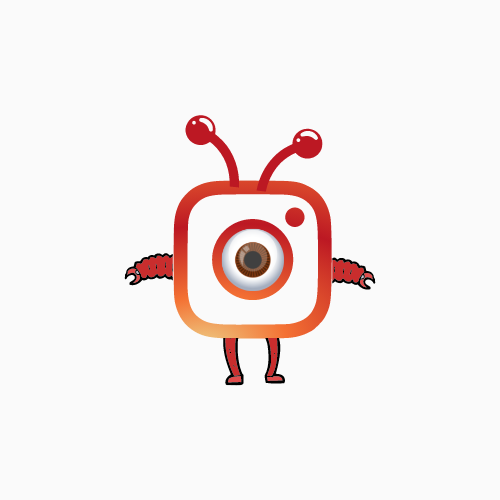
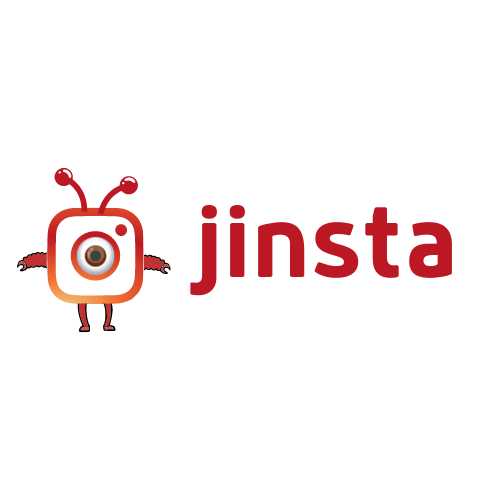
docs: documentation updated (#18)
* style(assets): icon changed with transparent backgrounded version

* style(assets): icon updated

* style(pom): project description added

Maven project description added for maven package

* build(example): example app project added

Parent project configuration updated with example module

* docs(readme): README and CODE OF CONDUCT files updated

* build(config): IntelliJ configuration updated

* build(config): concom configuration updated

new scopes added

* revert(659327e): "style(pom): project description added"

This reverts commit 659327e6e7e989b259487cedf9698375db3b63fc.

* docs(readme): Documentation linted by spotless

README and CODE_OF_CONDUCT files are linted by spotless

* docs(readme): Documentations updated

README.md updated and CONTRIBUTING.md file added

* docs: bug report template added

* build(config): concom configuration updated

* docs(readme): README file updated

* docs(readme): README file linted

* docs(readme): README issue fixed

* build(version): version incremented to 0.0.4

* fix(example): example application pom.xml issue fixed

deprecated parnt property replaced by project.parent and maven deploy plugin added to skip in deploy process

* build(version): version incremented to 0.0.5

The version 0.0.4 was messed up

* build(config): concom configuration updated

version scope added

Changed region(s): [[0.03, 0.21, 0.93, 0.78]]

diff --git a/example/src/main/java/io/makepad/jinsta/example/Example.java b/example/src/main/java/io/makepad/jinsta/example/Example.java
@@ -1,0 +1,33 @@
+/* (C)2021 */
+package io.makepad.jinsta.example;
+
+import io.makepad.jinsta.JInsta;
+import io.makepad.socialwalker.commons.models.Configuration;
+
+public class Example {
+    public static void main(String[] args) throws Exception {
+        Configuration c = new Configuration(true, "jinsta_test_cookies.data");
+        JInsta j = new JInsta(c);
+
+        // EXAMPLE PURPOSE ONLY: username, password login function will also check if cookie exists
+        // and login with cookies if needed.
+        if (c.isCookiesExists()) {
+            // If cookie already exists, it will login with cookies
+            j.login();
+        } else {
+            // Login to instagram account with username and password
+            j.login(System.getenv("INSTAGRAM_USERNAME"), System.getenv("INSTAGRAM_PASSWORD"));
+        }
+
+        j.setUserProfile("instagram");
+
+        System.out.printf("User full name %s\n", j.userProfile.getFullname());
+        System.out.printf("User number of followers %d\n", j.userProfile.getNbFollowers());
+        System.out.printf("User number of followings %s\n", j.userProfile.getNbFollowings());
+        System.out.printf("User bio %s\n", j.userProfile.getBio());
+        for (String followingUsername : j.userProfile.getFollowings()) {
+            System.out.printf("Following username %s\n", followingUsername);
+        }
+        // TODO: Check followers of another account
+    }
+}

diff --git a/CODE_OF_CONDUCT.md b/CODE_OF_CONDUCT.md
@@ -1,0 +1,133 @@
+
+# Contributor Covenant Code of Conduct
+
+## Our Pledge
+
+We as members, contributors, and leaders pledge to make participation in our
+community a harassment-free experience for everyone, regardless of age, body
+size, visible or invisible disability, ethnicity, sex characteristics, gender
+identity and expression, level of experience, education, socio-economic status,
+nationality, personal appearance, race, caste, color, religion, or sexual identity
+and orientation.
+
+We pledge to act and interact in ways that contribute to an open, welcoming,
+diverse, inclusive, and healthy community.
+
+## Our Standards
+
+Examples of behavior that contributes to a positive environment for our
+community include:
+
+* Demonstrating empathy and kindness toward other people
+* Being respectful of differing opinions, viewpoints, and experiences
+* Giving and gracefully accepting constructive feedback
+* Accepting responsibility and apologizing to those affected by our mistakes,
+and learning from the experience
+* Focusing on what is best not just for us as individuals, but for the
+overall community
+
+Examples of unacceptable behavior include:
+
+* The use of sexualized language or imagery, and sexual attention or
+advances of any kind
+* Trolling, insulting or derogatory comments, and personal or political attacks
+* Public or private harassment
+* Publishing others' private information, such as a physical or email
+address, without their explicit permission
+* Other conduct which could reasonably be considered inappropriate in a
+professional setting
+
+## Enforcement Responsibilities
+
+Community leaders are responsible for clarifying and enforcing our standards of
+acceptable behavior and will take appropriate and fair corrective action in
+response to any behavior that they deem inappropriate, threatening, offensive,
+or harmful.
+
+Community leaders have the right and responsibility to remove, edit, or reject
+comments, commits, code, wiki edits, issues, and other contributions that are
+not aligned to this Code of Conduct, and will communicate reasons for moderation
+decisions when appropriate.
+
+## Scope
+
+This Code of Conduct applies within all community spaces, and also applies when
+an individual is officially representing the community in public spaces.
+Examples of representing our community include using an official e-mail address,
+posting via an official social media account, or acting as an appointed
+representative at an online or offline event.
+
+## Enforcement
+
+Instances of abusive, harassing, or otherwise unacceptable behavior may be
+reported to the community leaders responsible for enforcement at
+dev@makepad.fr.
+All complaints will be reviewed and investigated promptly and fairly.
+
+All community leaders are obligated to respect the privacy and security of the
+reporter of any incident.
+
+## Enforcement Guidelines
+
+Community leaders will follow these Community Impact Guidelines in determining
+the consequences for any action they deem in violation of this Code of Conduct:
+
+### 1. Correction
+
+**Community Impact**: Use of inappropriate language or other behavior deemed
+unprofessional or unwelcome in the community.
+
+**Consequence**: A private, written warning from community leaders, providing
+clarity around the nature of the violation and an explanation of why the
+behavior was inappropriate. A public apology may be requested.
+
+### 2. Warning
+
+**Community Impact**: A violation through a single incident or series
+of actions.
+
+**Consequence**: A warning with consequences for continued behavior. No
+interaction with the people involved, including unsolicited interaction with
+those enforcing the Code of Conduct, for a specified period of time. This
+includes avoiding interactions in community spaces as well as external channels
+like social media. Violating these terms may lead to a temporary or
+permanent ban.
+
+### 3. Temporary Ban
+
+**Community Impact**: A serious violation of community standards, including
+sustained inappropriate behavior.
+
+**Consequence**: A temporary ban from any sort of interaction or public
+communication with the community for a specified period of time. No public or
+private interaction with the people involved, including unsolicited interaction
+with those enforcing the Code of Conduct, is allowed during this period.
+Violating these terms may lead to a permanent ban.
+
+### 4. Permanent Ban
+
+**Community Impact**: Demonstrating a pattern of violation of community
+standards, including sustained inappropriate behavior,  harassment of an
+individual, or aggression toward or disparagement of classes of individuals.
+
+**Consequence**: A permanent ban from any sort of public interaction within
+the community.
+
+## Attribution
+
+This Code of Conduct is adapted from the [Contributor Covenant][homepage],
+version 2.1, available at
+[https://www.contributor-covenant.org/version/2/1/code_of_conduct.html][v2.1].
+
+Community Impact Guidelines were inspired by
+[Mozilla's code of conduct enforcement ladder][Mozilla CoC].
+
+For answers to common questions about this code of conduct, see the FAQ at
+[https://www.contributor-covenant.org/faq][FAQ]. Translations are available
+at [https://www.contributor-covenant.org/translations][translations].
+
+[homepage]: https://www.contributor-covenant.org
+[v2.1]: https://www.contributor-covenant.org/version/2/1/code_of_conduct.html
+[Mozilla CoC]: https://github.com/mozilla/diversity
+[FAQ]: https://www.contributor-covenant.org/faq
+[translations]: https://www.contributor-covenant.org/translations

diff --git a/README.md b/README.md
@@ -1,18 +1,53 @@
-# JInsta
+<div align="center">
+	<img src="https://github.com/Makepad-fr/jinsta/blob/c8f511003e97b74ba19cb538046a77871fa61785/icon.png?raw=true" alt="Image" />
+</div>
 
-A toolkit that automates your social media interactions to "farm" Likes, Comments and Followers also to publish new posts on Instagram.
-Implemented in Java using Selenium module.
+<a href="https://foojay.io/today/works-with-openjdk">
+<img align="right"
+src="https://github.com/foojayio/badges/raw/main/works_with_openjdk/Works-with-OpenJDK.png"
+width="100">
+</a>
 
-## Development
+![](https://maven-badges.herokuapp.com/maven-central/io.makepad/jinsta/badge.png?style=plastic)
+[![Makepad-fr](https://circleci.com/gh/Makepad-fr/jinsta.svg?style=svg)](https://app.circleci.com/pipelines/github/Makepad-fr/jinsta)
+[![Contributor Covenant](https://img.shields.io/badge/Contributor%20Covenant-2.1-4baaaa.svg)](code_of_conduct.md)
+[![Conventional Commits](https://img.shields.io/badge/Conventional%20Commits-1.0.0-yellow.svg)](https://conventionalcommits.org)
 
-### To install dependencies
-```shell
-mvn clean install -U
+---
+
+
+A toolkit that automates Instagram. That's it ! What you do with that tool is up to you.
+
+## Installing
+
+### With Maven
+
+You can add `io.makepad.jinsta` in your `pom.xml` file as a dependency.
+
+```xml
+<dependency>
+	<groupId>io.makepad</groupId>
+	<artifactId>jinsta</artifactId>
+	<version>0.0.5</version>
+</dependency>
 ```
 
-### To run the manual Tests
-```shell
-mvn compile exec:java
-```
+## Usage
 
->Disclaimer: Please note that this is a research project. I am by no means responsible for any usage of this tool. Use it on your behalf. We are also not responsible if your accounts get banned due to the extensive use of this tool.
+For a usage example please check  [the example project](./example).
+
+## Contributing
+
+The project is under active development. All kinds of contributions are welcome.
+<<<<<<< Updated upstream
+All interactions in our official communication channels follow our [Code of Conduct](./CODE_OF_CONDUCT.md).
+
+### Having a trouble?
+
+We're really sorry to hear that. Please [create a new issue](https://www.github.com/Makepad-fr/jinsta/issues/new) and we'll try to fix it ASAP.
+
+### Want to contribute?
+
+Please refer our [contributing guidelines](./CONTRIBUTING.md)
+
+> Disclaimer: Please note that this is a research project. Makepad or any other developer of this project by no means responsible for any usage of this tool. Use it on your behalf. We are also not responsible if your accounts get banned due to the extensive use of this tool.

diff --git a/CONTRIBUTING.md b/CONTRIBUTING.md
@@ -1,0 +1,31 @@
+# Contributing to JInsta
+
+Thanks for your interest in JInsta. Our goal is to bring automated Instagram interactions to all JVM-based communities.
+
+## Getting Started
+
+JInsta's [open issues are here](https://github.com/Makepad-fr/jinsta/issues). In time, we'll tag issues that would make a good first pull request for new contributors. An easy way to get started helping the project is to [file an issue](https://github.com/Makepad-fr/jinsta/issues/new). You can do that on the Deeplearning4j issues page by clicking on the green button at the right. Issues can include bugs to fix, features to add, or documentation that looks outdated.
+
+## Contributions
+
+JInsta welcomes contributions from everyone.
+
+Contributions to JInsta should be made in the form of GitHub pull requests. Each pull request will
+be reviewed by a core contributor (someone with permission to land patches) and either landed in the
+main tree or given feedback for changes that would be required.
+
+## Pull Request Checklist
+
+- Branch from the `development` branch and, if needed, rebase to the current `development`
+branch before submitting your pull request. If it doesn't merge cleanly with
+`development` you may be asked to rebase your changes.
+
+- Commits should be as small as possible, for commits messages we are following [Conventional Commits](https://www.conventionalcommits.org/en/v1.0.0/)
+
+- Add tests relevant to the fixed bug or new feature.
+
+## Conduct
+
+All interactions in our official communication channels follow our [Code of Conduct](./CODE_OF_CONDUCT.md).
+
+All code in this repository is under the Apache Software Foundation License, 2.0.
